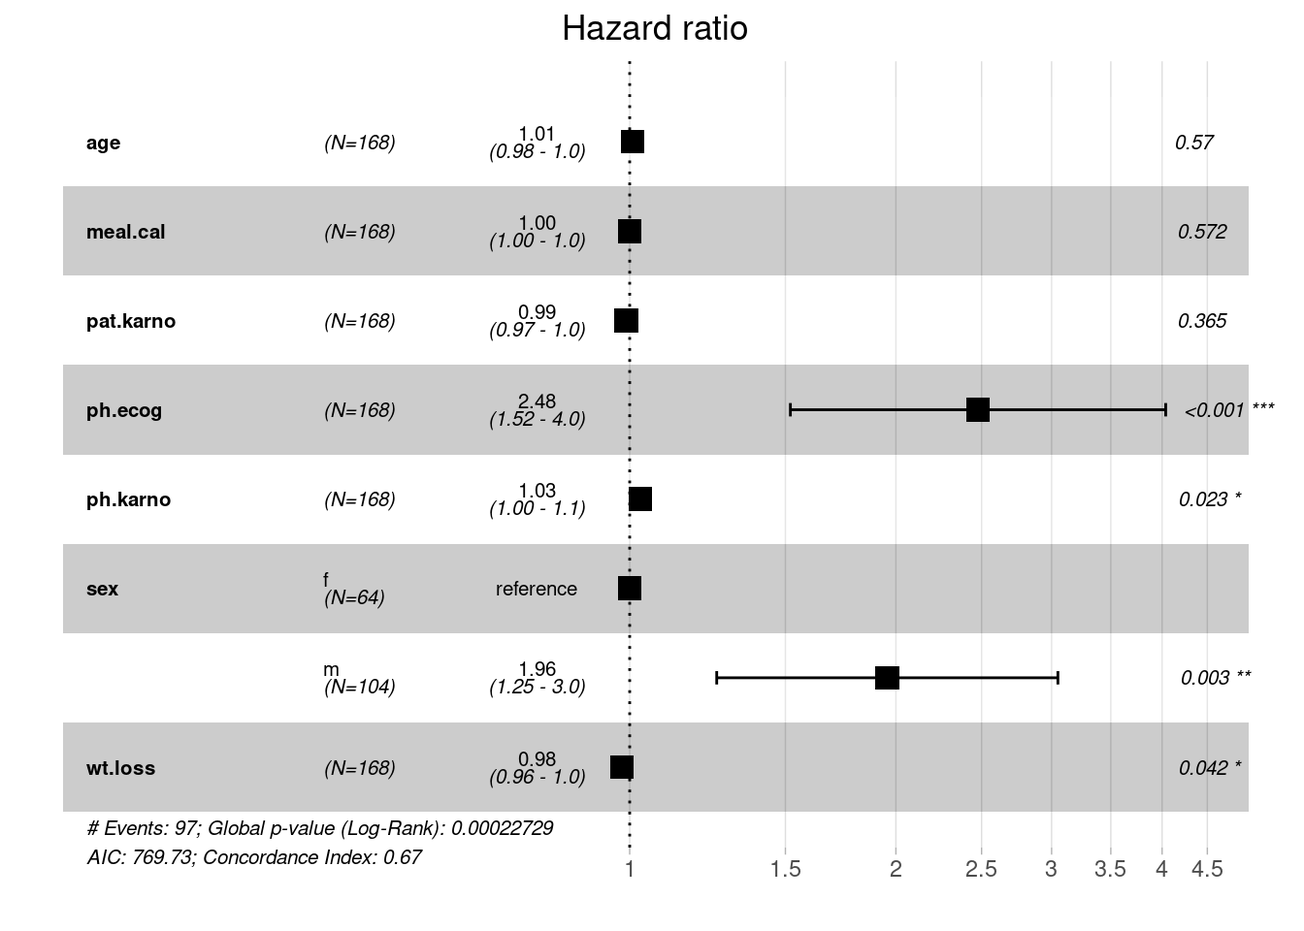
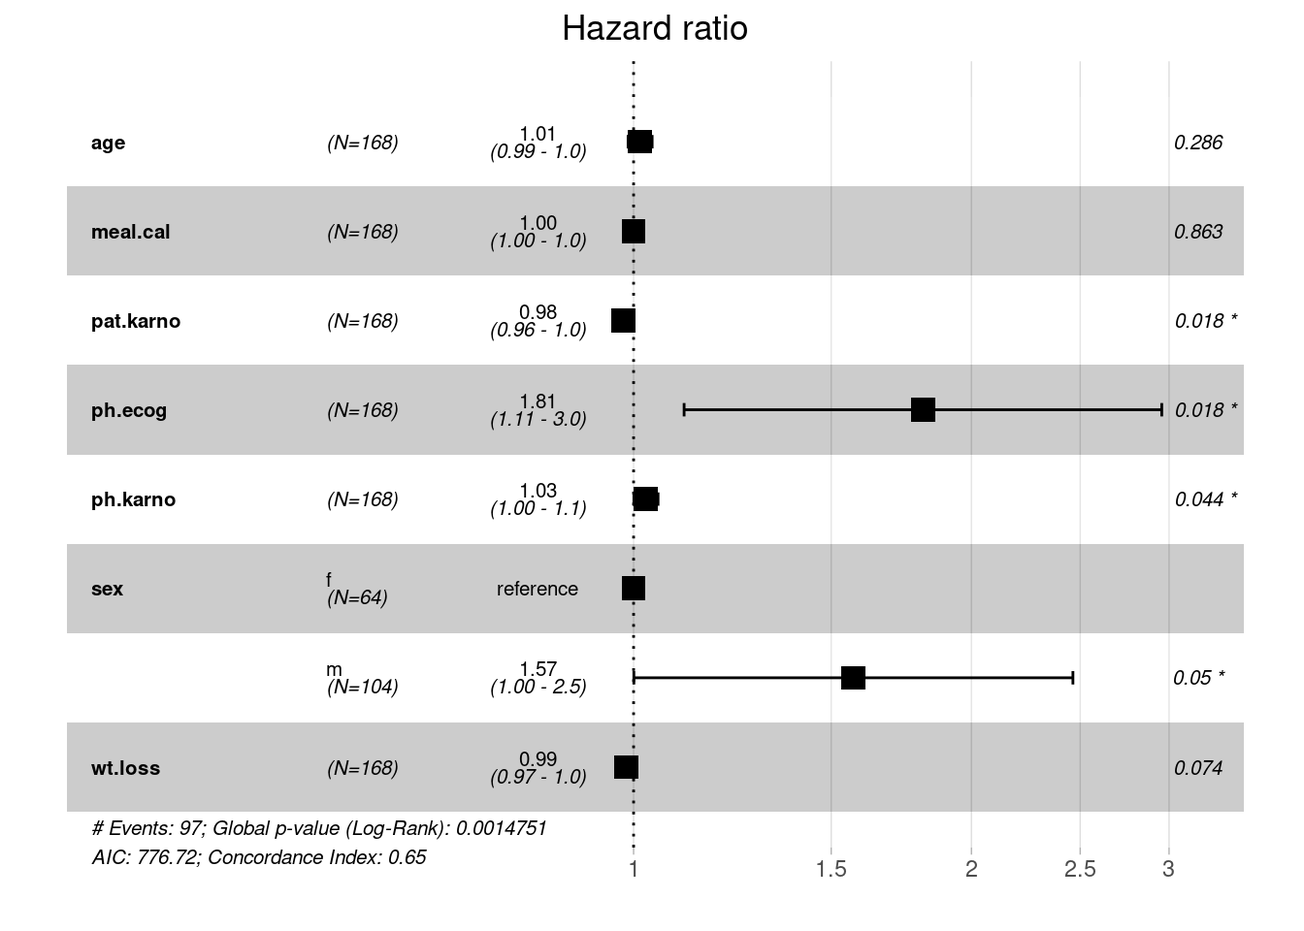
update docs

diff --git a/docs/index.html b/docs/index.html
@@ -213,10 +213,9 @@ We can access the list of available learners using the <code>mlr_learners</code>
 <div class="sourceCode cell-code" id="cb2"><pre class="sourceCode r code-with-copy"><code class="sourceCode r"><span id="cb2-1"><a href="#cb2-1" aria-hidden="true" tabindex="-1"></a><span class="fu">sample</span>(mlr_learners<span class="sc">$</span><span class="fu">keys</span>(), <span class="dv">10</span>)</span></code><button title="Copy to Clipboard" class="code-copy-button"><i class="bi"></i></button></pre></div>
 </details>
 <div class="cell-output cell-output-stdout">
-<pre><code> [1] "classif.randomForest" "surv.penalized"       "regr.lm"             
- [4] "clust.meanshift"      "surv.cv_glmnet"       "regr.ranger"         
- [7] "regr.svm"             "clust.featureless"    "surv.mboost"         
-[10] "regr.lightgbm"       </code></pre>
+<pre><code> [1] "surv.cv_glmnet" "classif.rpart"  "surv.glmboost"  "classif.J48"   
+ [5] "regr.glmboost"  "clust.hclust"   "clust.ff"       "regr.rfsrc"    
+ [9] "regr.gamboost"  "classif.gam"   </code></pre>
 </div>
 </div>
 <p>One example:</p>
@@ -499,26 +498,27 @@ Note
 <div class="cell">
 <details open="">
 <summary>Code</summary>
-<div class="sourceCode cell-code" id="cb26"><pre class="sourceCode r code-with-copy"><code class="sourceCode r"><span id="cb26-1"><a href="#cb26-1" aria-hidden="true" tabindex="-1"></a>part <span class="ot">=</span> <span class="fu">partition</span>(task, <span class="at">ratio =</span> <span class="fl">0.8</span>) <span class="co"># by default, stratification is on `status` variable</span></span>
-<span id="cb26-2"><a href="#cb26-2" aria-hidden="true" tabindex="-1"></a>cox<span class="sc">$</span><span class="fu">train</span>(task, <span class="at">row_ids =</span> part<span class="sc">$</span>train)</span>
-<span id="cb26-3"><a href="#cb26-3" aria-hidden="true" tabindex="-1"></a></span>
-<span id="cb26-4"><a href="#cb26-4" aria-hidden="true" tabindex="-1"></a>cox<span class="sc">$</span>model</span></code><button title="Copy to Clipboard" class="code-copy-button"><i class="bi"></i></button></pre></div>
+<div class="sourceCode cell-code" id="cb26"><pre class="sourceCode r code-with-copy"><code class="sourceCode r"><span id="cb26-1"><a href="#cb26-1" aria-hidden="true" tabindex="-1"></a><span class="fu">set.seed</span>(<span class="dv">42</span>)</span>
+<span id="cb26-2"><a href="#cb26-2" aria-hidden="true" tabindex="-1"></a>part <span class="ot">=</span> <span class="fu">partition</span>(task, <span class="at">ratio =</span> <span class="fl">0.8</span>) <span class="co"># by default, stratification is on `status` variable</span></span>
+<span id="cb26-3"><a href="#cb26-3" aria-hidden="true" tabindex="-1"></a>cox<span class="sc">$</span><span class="fu">train</span>(task, <span class="at">row_ids =</span> part<span class="sc">$</span>train)</span>
+<span id="cb26-4"><a href="#cb26-4" aria-hidden="true" tabindex="-1"></a></span>
+<span id="cb26-5"><a href="#cb26-5" aria-hidden="true" tabindex="-1"></a>cox<span class="sc">$</span>model</span></code><button title="Copy to Clipboard" class="code-copy-button"><i class="bi"></i></button></pre></div>
 </details>
 <div class="cell-output cell-output-stdout">
 <pre><code>Call:
 survival::coxph(formula = task$formula(), data = task$data(), 
     x = TRUE)
 
-                coef  exp(coef)   se(coef)      z        p
-age        0.0072037  1.0072297  0.0126836  0.568 0.570069
-meal.cal  -0.0001913  0.9998087  0.0003387 -0.565 0.572193
-pat.karno -0.0084326  0.9916029  0.0093169 -0.905 0.365418
-ph.ecog    0.9070317  2.4769592  0.2492998  3.638 0.000274
-ph.karno   0.0274085  1.0277875  0.0120926  2.267 0.023418
-sexm       0.6708008  1.9558029  0.2266265  2.960 0.003077
-wt.loss   -0.0205576  0.9796522  0.0101108 -2.033 0.042030
+                coef  exp(coef)   se(coef)      z      p
+age        1.341e-02  1.013e+00  1.258e-02  1.066 0.2864
+meal.cal  -5.007e-05  9.999e-01  2.903e-04 -0.172 0.8631
+pat.karno -2.142e-02  9.788e-01  9.055e-03 -2.366 0.0180
+ph.ecog    5.936e-01  1.811e+00  2.500e-01  2.375 0.0176
+ph.karno   2.541e-02  1.026e+00  1.263e-02  2.011 0.0443
+sexm       4.510e-01  1.570e+00  2.298e-01  1.962 0.0497
+wt.loss   -1.500e-02  9.851e-01  8.395e-03 -1.787 0.0739
 
-Likelihood ratio test=27.92  on 7 df, p=0.0002273
+Likelihood ratio test=23.36  on 7 df, p=0.001475
 n= 135, number of events= 97 </code></pre>
 </div>
 </div>
@@ -544,14 +544,14 @@ n= 135, number of events= 97 </code></pre>
 </details>
 <div class="cell-output cell-output-stdout">
 <pre><code>&lt;PredictionSurv&gt; for 33 observations:
-    row_ids time status        crank           lp     distr
-          9  567   TRUE -0.700201337 -0.700201337 &lt;list[1]&gt;
-         10  613   TRUE  1.028226970  1.028226970 &lt;list[1]&gt;
-         28  731   TRUE -0.375816571 -0.375816571 &lt;list[1]&gt;
----                                                        
-        163  197  FALSE  0.605988685  0.605988685 &lt;list[1]&gt;
-        167  174  FALSE  0.890416067  0.890416067 &lt;list[1]&gt;
-        168  177  FALSE -0.004345193 -0.004345193 &lt;list[1]&gt;</code></pre>
+    row_ids time status       crank          lp     distr
+          1  455   TRUE -0.16022736 -0.16022736 &lt;list[1]&gt;
+          8  170   TRUE  0.07608537  0.07608537 &lt;list[1]&gt;
+         15  371   TRUE -0.46601841 -0.46601841 &lt;list[1]&gt;
+---                                                      
+        165  191  FALSE -0.30526841 -0.30526841 &lt;list[1]&gt;
+        166  105  FALSE  0.49632782  0.49632782 &lt;list[1]&gt;
+        168  177  FALSE -0.17234336 -0.17234336 &lt;list[1]&gt;</code></pre>
 </div>
 </div>
 <div class="callout callout-style-default callout-tip callout-titled" title="Prediction types in mlr3proba">
@@ -580,17 +580,17 @@ Prediction types in mlr3proba
 </details>
 <div class="cell-output cell-output-stdout">
 <pre><code>           1            2            3            4            5            6 
--0.700201337  1.028226970 -0.375816571  0.816563800 -0.185087141  0.411187485 
+-0.160227364  0.076085366 -0.466018411  0.293380270  1.179147761  0.523244848 
            7            8            9           10           11           12 
- 0.283576898  0.352202395  0.464643104  1.556489894  0.380432009  0.953430081 
+ 0.391564618 -0.029833700 -0.149489235 -0.262762070  0.076021387  0.279388934 
           13           14           15           16           17           18 
- 0.613978574  0.168618620  0.440813175  0.603358317 -0.955983866 -0.183689510 
+ 0.889995280  0.859467193  1.030472975  0.277533930 -0.057165655  0.362416853 
           19           20           21           22           23           24 
- 0.043210567  0.049214390 -0.790112114  0.474345598  0.158416163  0.618235104 
+-0.037670338 -0.295071061 -0.419840184  0.793214751  0.823500785  0.977222024 
           25           26           27           28           29           30 
--0.458227141 -0.688933251  0.673196757  0.881672255 -0.241967726  0.550904241 
+-0.046252611  0.021227170 -0.093541236 -0.158438686  1.615114453  0.003701068 
           31           32           33 
- 0.605988685  0.890416067 -0.004345193 </code></pre>
+-0.305268413  0.496327822 -0.172343361 </code></pre>
 </div>
 </div>
 <p>Survival prediction is a 2D <code>matrix</code> essentially, with dimensions: observations x time points:</p>
@@ -600,12 +600,12 @@ Prediction types in mlr3proba
 <div class="sourceCode cell-code" id="cb33"><pre class="sourceCode r code-with-copy"><code class="sourceCode r"><span id="cb33-1"><a href="#cb33-1" aria-hidden="true" tabindex="-1"></a>p<span class="sc">$</span>data<span class="sc">$</span>distr[<span class="dv">1</span><span class="sc">:</span><span class="dv">5</span>, <span class="dv">1</span><span class="sc">:</span><span class="dv">5</span>]</span></code><button title="Copy to Clipboard" class="code-copy-button"><i class="bi"></i></button></pre></div>
 </details>
 <div class="cell-output cell-output-stdout">
-<pre><code>          5        11        12        13        26
-1 0.9979931 0.9959835 0.9939475 0.9918779 0.9897800
-2 0.9887499 0.9775894 0.9663876 0.9551100 0.9437888
-3 0.9972252 0.9944488 0.9916380 0.9887832 0.9858917
-4 0.9908862 0.9818254 0.9727112 0.9635150 0.9542623
-5 0.9966431 0.9932862 0.9898897 0.9864422 0.9829525</code></pre>
+<pre><code>          5        11        12        13        15
+1 0.9959775 0.9919519 0.9879072 0.9837970 0.9796477
+2 0.9949079 0.9898175 0.9847084 0.9795222 0.9742926
+3 0.9970357 0.9940659 0.9910789 0.9880402 0.9849691
+4 0.9936759 0.9873617 0.9810323 0.9746156 0.9681535
+5 0.9847342 0.9696296 0.9546262 0.9395560 0.9245212</code></pre>
 </div>
 </div>
 <p>Users should use the <a href="https://github.com/xoopR/distr6">distr6</a> interface to access this prediction type, which allows us to retrieve survival probabilities (or hazards) for any time point of interest:</p>
@@ -616,10 +616,21 @@ Prediction types in mlr3proba
 <span id="cb35-2"><a href="#cb35-2" aria-hidden="true" tabindex="-1"></a>p<span class="sc">$</span>distr[<span class="dv">1</span><span class="sc">:</span><span class="dv">4</span>]<span class="sc">$</span><span class="fu">survival</span>(<span class="fu">c</span>(<span class="dv">100</span>, <span class="dv">500</span>, <span class="dv">1200</span>))</span></code><button title="Copy to Clipboard" class="code-copy-button"><i class="bi"></i></button></pre></div>
 </details>
 <div class="cell-output cell-output-stdout">
-<pre><code>          [,1]        [,2]      [,3]       [,4]
-100  0.9602155 0.795617321 0.9453939 0.83108638
-500  0.6489208 0.087559224 0.5498287 0.13933856
-1200 0.4036618 0.006041878 0.2851358 0.01601186</code></pre>
+<pre><code>          [,1]      [,2]      [,3]       [,4]
+100  0.9184997 0.8979186 0.9393041 0.87475634
+500  0.4589611 0.3729197 0.5634874 0.29352281
+1200 0.1684876 0.1048078 0.2693617 0.06062239</code></pre>
+</div>
+</div>
+<p>Visualization of predicted survival curves for <span class="math inline">3</span> test patients:</p>
+<div class="cell">
+<details open="">
+<summary>Code</summary>
+<div class="sourceCode cell-code" id="cb37"><pre class="sourceCode r code-with-copy"><code class="sourceCode r"><span id="cb37-1"><a href="#cb37-1" aria-hidden="true" tabindex="-1"></a>p2 <span class="ot">=</span> p<span class="sc">$</span><span class="fu">clone</span>()<span class="sc">$</span><span class="fu">filter</span>(<span class="at">row_ids =</span> <span class="fu">c</span>(<span class="dv">1</span>,<span class="dv">24</span>,<span class="dv">40</span>))</span>
+<span id="cb37-2"><a href="#cb37-2" aria-hidden="true" tabindex="-1"></a><span class="fu">autoplot</span>(p2, <span class="at">type =</span> <span class="st">"preds"</span>)</span></code><button title="Copy to Clipboard" class="code-copy-button"><i class="bi"></i></button></pre></div>
+</details>
+<div class="cell-output-display">
+<p><img src="index_files/figure-html/unnamed-chunk-20-1.png" class="img-fluid" width="672"></p>
 </div>
 </div>
 </section>
@@ -647,7 +658,7 @@ Model validation
 <div class="cell">
 <details open="">
 <summary>Code</summary>
-<div class="sourceCode cell-code" id="cb37"><pre class="sourceCode r code-with-copy"><code class="sourceCode r"><span id="cb37-1"><a href="#cb37-1" aria-hidden="true" tabindex="-1"></a>mlr_measures<span class="sc">$</span><span class="fu">keys</span>(<span class="at">pattern =</span> <span class="st">"surv"</span>)</span></code><button title="Copy to Clipboard" class="code-copy-button"><i class="bi"></i></button></pre></div>
+<div class="sourceCode cell-code" id="cb38"><pre class="sourceCode r code-with-copy"><code class="sourceCode r"><span id="cb38-1"><a href="#cb38-1" aria-hidden="true" tabindex="-1"></a>mlr_measures<span class="sc">$</span><span class="fu">keys</span>(<span class="at">pattern =</span> <span class="st">"surv"</span>)</span></code><button title="Copy to Clipboard" class="code-copy-button"><i class="bi"></i></button></pre></div>
 </details>
 <div class="cell-output cell-output-stdout">
 <pre><code> [1] "surv.brier"         "surv.calib_alpha"   "surv.calib_beta"   
@@ -664,12 +675,12 @@ Model validation
 <div class="cell">
 <details open="">
 <summary>Code</summary>
-<div class="sourceCode cell-code" id="cb39"><pre class="sourceCode r code-with-copy"><code class="sourceCode r"><span id="cb39-1"><a href="#cb39-1" aria-hidden="true" tabindex="-1"></a>harrell_c <span class="ot">=</span> <span class="fu">msr</span>(<span class="st">"surv.cindex"</span>, <span class="at">id =</span> <span class="st">"surv.cindex.harrell"</span>)</span>
-<span id="cb39-2"><a href="#cb39-2" aria-hidden="true" tabindex="-1"></a>uno_c <span class="ot">=</span> <span class="fu">msr</span>(<span class="st">"surv.cindex"</span>, <span class="at">weight_meth =</span> <span class="st">"G2"</span>)</span>
-<span id="cb39-3"><a href="#cb39-3" aria-hidden="true" tabindex="-1"></a>uno_auci <span class="ot">=</span> <span class="fu">msr</span>(<span class="st">"surv.uno_auc"</span>, <span class="at">integrated =</span> <span class="cn">TRUE</span>) <span class="co"># across all times in the test set</span></span>
-<span id="cb39-4"><a href="#cb39-4" aria-hidden="true" tabindex="-1"></a>uno_auc <span class="ot">=</span> <span class="fu">msr</span>(<span class="st">"surv.uno_auc"</span>, <span class="at">integrated =</span> <span class="cn">FALSE</span>, <span class="at">times =</span> <span class="dv">10</span>) <span class="co"># at a specific time-point of interest</span></span>
-<span id="cb39-5"><a href="#cb39-5" aria-hidden="true" tabindex="-1"></a></span>
-<span id="cb39-6"><a href="#cb39-6" aria-hidden="true" tabindex="-1"></a>harrell_c</span></code><button title="Copy to Clipboard" class="code-copy-button"><i class="bi"></i></button></pre></div>
+<div class="sourceCode cell-code" id="cb40"><pre class="sourceCode r code-with-copy"><code class="sourceCode r"><span id="cb40-1"><a href="#cb40-1" aria-hidden="true" tabindex="-1"></a>harrell_c <span class="ot">=</span> <span class="fu">msr</span>(<span class="st">"surv.cindex"</span>, <span class="at">id =</span> <span class="st">"surv.cindex.harrell"</span>)</span>
+<span id="cb40-2"><a href="#cb40-2" aria-hidden="true" tabindex="-1"></a>uno_c <span class="ot">=</span> <span class="fu">msr</span>(<span class="st">"surv.cindex"</span>, <span class="at">weight_meth =</span> <span class="st">"G2"</span>)</span>
+<span id="cb40-3"><a href="#cb40-3" aria-hidden="true" tabindex="-1"></a>uno_auci <span class="ot">=</span> <span class="fu">msr</span>(<span class="st">"surv.uno_auc"</span>, <span class="at">integrated =</span> <span class="cn">TRUE</span>) <span class="co"># across all times in the test set</span></span>
+<span id="cb40-4"><a href="#cb40-4" aria-hidden="true" tabindex="-1"></a>uno_auc <span class="ot">=</span> <span class="fu">msr</span>(<span class="st">"surv.uno_auc"</span>, <span class="at">integrated =</span> <span class="cn">FALSE</span>, <span class="at">times =</span> <span class="dv">10</span>) <span class="co"># at a specific time-point of interest</span></span>
+<span id="cb40-5"><a href="#cb40-5" aria-hidden="true" tabindex="-1"></a></span>
+<span id="cb40-6"><a href="#cb40-6" aria-hidden="true" tabindex="-1"></a>harrell_c</span></code><button title="Copy to Clipboard" class="code-copy-button"><i class="bi"></i></button></pre></div>
 </details>
 <div class="cell-output cell-output-stdout">
 <pre><code>&lt;MeasureSurvCindex:surv.cindex.harrell&gt;
@@ -684,7 +695,7 @@ Model validation
 </div>
 <details open="">
 <summary>Code</summary>
-<div class="sourceCode cell-code" id="cb41"><pre class="sourceCode r code-with-copy"><code class="sourceCode r"><span id="cb41-1"><a href="#cb41-1" aria-hidden="true" tabindex="-1"></a>uno_auc</span></code><button title="Copy to Clipboard" class="code-copy-button"><i class="bi"></i></button></pre></div>
+<div class="sourceCode cell-code" id="cb42"><pre class="sourceCode r code-with-copy"><code class="sourceCode r"><span id="cb42-1"><a href="#cb42-1" aria-hidden="true" tabindex="-1"></a>uno_auc</span></code><button title="Copy to Clipboard" class="code-copy-button"><i class="bi"></i></button></pre></div>
 </details>
 <div class="cell-output cell-output-stdout">
 <pre><code>&lt;MeasureSurvUnoAUC:surv.uno_auc&gt;
@@ -717,37 +728,37 @@ Note
 <div class="cell">
 <details open="">
 <summary>Code</summary>
-<div class="sourceCode cell-code" id="cb43"><pre class="sourceCode r code-with-copy"><code class="sourceCode r"><span id="cb43-1"><a href="#cb43-1" aria-hidden="true" tabindex="-1"></a>p<span class="sc">$</span><span class="fu">score</span>(harrell_c)</span></code><button title="Copy to Clipboard" class="code-copy-button"><i class="bi"></i></button></pre></div>
+<div class="sourceCode cell-code" id="cb44"><pre class="sourceCode r code-with-copy"><code class="sourceCode r"><span id="cb44-1"><a href="#cb44-1" aria-hidden="true" tabindex="-1"></a>p<span class="sc">$</span><span class="fu">score</span>(harrell_c)</span></code><button title="Copy to Clipboard" class="code-copy-button"><i class="bi"></i></button></pre></div>
 </details>
 <div class="cell-output cell-output-stdout">
 <pre><code>surv.cindex.harrell 
-          0.5282052 </code></pre>
+          0.6336898 </code></pre>
 </div>
 <details open="">
 <summary>Code</summary>
-<div class="sourceCode cell-code" id="cb45"><pre class="sourceCode r code-with-copy"><code class="sourceCode r"><span id="cb45-1"><a href="#cb45-1" aria-hidden="true" tabindex="-1"></a>p<span class="sc">$</span><span class="fu">score</span>(uno_c, <span class="at">task =</span> task, <span class="at">train_set =</span> part<span class="sc">$</span>train)</span></code><button title="Copy to Clipboard" class="code-copy-button"><i class="bi"></i></button></pre></div>
+<div class="sourceCode cell-code" id="cb46"><pre class="sourceCode r code-with-copy"><code class="sourceCode r"><span id="cb46-1"><a href="#cb46-1" aria-hidden="true" tabindex="-1"></a>p<span class="sc">$</span><span class="fu">score</span>(uno_c, <span class="at">task =</span> task, <span class="at">train_set =</span> part<span class="sc">$</span>train)</span></code><button title="Copy to Clipboard" class="code-copy-button"><i class="bi"></i></button></pre></div>
 </details>
 <div class="cell-output cell-output-stdout">
 <pre><code>surv.cindex 
-  0.5292394 </code></pre>
+  0.5907828 </code></pre>
 </div>
 </div>
 <p>Calibration is traditionally performed graphically via calibration plots:</p>
 <div class="cell">
 <details open="">
 <summary>Code</summary>
-<div class="sourceCode cell-code" id="cb47"><pre class="sourceCode r code-with-copy"><code class="sourceCode r"><span id="cb47-1"><a href="#cb47-1" aria-hidden="true" tabindex="-1"></a><span class="fu">autoplot</span>(p, <span class="at">type =</span> <span class="st">"calib"</span>, <span class="at">task =</span> task, <span class="at">row_ids =</span> part<span class="sc">$</span>test)</span></code><button title="Copy to Clipboard" class="code-copy-button"><i class="bi"></i></button></pre></div>
+<div class="sourceCode cell-code" id="cb48"><pre class="sourceCode r code-with-copy"><code class="sourceCode r"><span id="cb48-1"><a href="#cb48-1" aria-hidden="true" tabindex="-1"></a><span class="fu">autoplot</span>(p, <span class="at">type =</span> <span class="st">"calib"</span>, <span class="at">task =</span> task, <span class="at">row_ids =</span> part<span class="sc">$</span>test)</span></code><button title="Copy to Clipboard" class="code-copy-button"><i class="bi"></i></button></pre></div>
 </details>
 <div class="cell-output-display">
-<p><img src="index_files/figure-html/unnamed-chunk-23-1.png" class="img-fluid" width="672"></p>
+<p><img src="index_files/figure-html/unnamed-chunk-24-1.png" class="img-fluid" width="672"></p>
 </div>
 </div>
 <p>But there exists also calibration metrics, e.g.&nbsp;<strong>D-Calibration</strong>:</p>
 <div class="cell">
 <details open="">
 <summary>Code</summary>
-<div class="sourceCode cell-code" id="cb48"><pre class="sourceCode r code-with-copy"><code class="sourceCode r"><span id="cb48-1"><a href="#cb48-1" aria-hidden="true" tabindex="-1"></a>dcal <span class="ot">=</span> <span class="fu">msr</span>(<span class="st">"surv.dcalib"</span>)</span>
-<span id="cb48-2"><a href="#cb48-2" aria-hidden="true" tabindex="-1"></a>dcal</span></code><button title="Copy to Clipboard" class="code-copy-button"><i class="bi"></i></button></pre></div>
+<div class="sourceCode cell-code" id="cb49"><pre class="sourceCode r code-with-copy"><code class="sourceCode r"><span id="cb49-1"><a href="#cb49-1" aria-hidden="true" tabindex="-1"></a>dcal <span class="ot">=</span> <span class="fu">msr</span>(<span class="st">"surv.dcalib"</span>)</span>
+<span id="cb49-2"><a href="#cb49-2" aria-hidden="true" tabindex="-1"></a>dcal</span></code><button title="Copy to Clipboard" class="code-copy-button"><i class="bi"></i></button></pre></div>
 </details>
 <div class="cell-output cell-output-stdout">
 <pre><code>&lt;MeasureSurvDCalibration:surv.dcalib&gt;
@@ -762,19 +773,19 @@ Note
 </div>
 <details open="">
 <summary>Code</summary>
-<div class="sourceCode cell-code" id="cb50"><pre class="sourceCode r code-with-copy"><code class="sourceCode r"><span id="cb50-1"><a href="#cb50-1" aria-hidden="true" tabindex="-1"></a>p<span class="sc">$</span><span class="fu">score</span>(dcal)</span></code><button title="Copy to Clipboard" class="code-copy-button"><i class="bi"></i></button></pre></div>
+<div class="sourceCode cell-code" id="cb51"><pre class="sourceCode r code-with-copy"><code class="sourceCode r"><span id="cb51-1"><a href="#cb51-1" aria-hidden="true" tabindex="-1"></a>p<span class="sc">$</span><span class="fu">score</span>(dcal)</span></code><button title="Copy to Clipboard" class="code-copy-button"><i class="bi"></i></button></pre></div>
 </details>
 <div class="cell-output cell-output-stdout">
 <pre><code>surv.dcalib 
-   3.918884 </code></pre>
+   8.320423 </code></pre>
 </div>
 </div>
 <p>Overall survival prediction performance can be assessed by scoring rules such as the <strong>Integrated Survival Brier Score</strong> (ISBS) and the <strong>Right-censored Log-Loss</strong> (RCLL) among others:</p>
 <div class="cell">
 <details open="">
 <summary>Code</summary>
-<div class="sourceCode cell-code" id="cb52"><pre class="sourceCode r code-with-copy"><code class="sourceCode r"><span id="cb52-1"><a href="#cb52-1" aria-hidden="true" tabindex="-1"></a>rcll <span class="ot">=</span> <span class="fu">msr</span>(<span class="st">"surv.rcll"</span>)</span>
-<span id="cb52-2"><a href="#cb52-2" aria-hidden="true" tabindex="-1"></a>rcll</span></code><button title="Copy to Clipboard" class="code-copy-button"><i class="bi"></i></button></pre></div>
+<div class="sourceCode cell-code" id="cb53"><pre class="sourceCode r code-with-copy"><code class="sourceCode r"><span id="cb53-1"><a href="#cb53-1" aria-hidden="true" tabindex="-1"></a>rcll <span class="ot">=</span> <span class="fu">msr</span>(<span class="st">"surv.rcll"</span>)</span>
+<span id="cb53-2"><a href="#cb53-2" aria-hidden="true" tabindex="-1"></a>rcll</span></code><button title="Copy to Clipboard" class="code-copy-button"><i class="bi"></i></button></pre></div>
 </details>
 <div class="cell-output cell-output-stdout">
 <pre><code>&lt;MeasureSurvRCLL:surv.rcll&gt;
@@ -789,18 +800,18 @@ Note
 </div>
 <details open="">
 <summary>Code</summary>
-<div class="sourceCode cell-code" id="cb54"><pre class="sourceCode r code-with-copy"><code class="sourceCode r"><span id="cb54-1"><a href="#cb54-1" aria-hidden="true" tabindex="-1"></a>p<span class="sc">$</span><span class="fu">score</span>(rcll)</span></code><button title="Copy to Clipboard" class="code-copy-button"><i class="bi"></i></button></pre></div>
+<div class="sourceCode cell-code" id="cb55"><pre class="sourceCode r code-with-copy"><code class="sourceCode r"><span id="cb55-1"><a href="#cb55-1" aria-hidden="true" tabindex="-1"></a>p<span class="sc">$</span><span class="fu">score</span>(rcll)</span></code><button title="Copy to Clipboard" class="code-copy-button"><i class="bi"></i></button></pre></div>
 </details>
 <div class="cell-output cell-output-stdout">
 <pre><code>surv.rcll 
- 22.55022 </code></pre>
+ 23.46684 </code></pre>
 </div>
 </div>
 <div class="cell">
 <details open="">
 <summary>Code</summary>
-<div class="sourceCode cell-code" id="cb56"><pre class="sourceCode r code-with-copy"><code class="sourceCode r"><span id="cb56-1"><a href="#cb56-1" aria-hidden="true" tabindex="-1"></a>ibrier <span class="ot">=</span> <span class="fu">msr</span>(<span class="st">"surv.brier"</span>, <span class="at">proper =</span> <span class="cn">TRUE</span>)</span>
-<span id="cb56-2"><a href="#cb56-2" aria-hidden="true" tabindex="-1"></a>ibrier</span></code><button title="Copy to Clipboard" class="code-copy-button"><i class="bi"></i></button></pre></div>
+<div class="sourceCode cell-code" id="cb57"><pre class="sourceCode r code-with-copy"><code class="sourceCode r"><span id="cb57-1"><a href="#cb57-1" aria-hidden="true" tabindex="-1"></a>ibrier <span class="ot">=</span> <span class="fu">msr</span>(<span class="st">"surv.brier"</span>, <span class="at">proper =</span> <span class="cn">TRUE</span>)</span>
+<span id="cb57-2"><a href="#cb57-2" aria-hidden="true" tabindex="-1"></a>ibrier</span></code><button title="Copy to Clipboard" class="code-copy-button"><i class="bi"></i></button></pre></div>
 </details>
 <div class="cell-output cell-output-stdout">
 <pre><code>&lt;MeasureSurvGraf:surv.graf&gt;
@@ -816,11 +827,11 @@ Note
 </div>
 <details open="">
 <summary>Code</summary>
-<div class="sourceCode cell-code" id="cb58"><pre class="sourceCode r code-with-copy"><code class="sourceCode r"><span id="cb58-1"><a href="#cb58-1" aria-hidden="true" tabindex="-1"></a>p<span class="sc">$</span><span class="fu">score</span>(ibrier, <span class="at">task =</span> task, <span class="at">train_set =</span> part<span class="sc">$</span>train)</span></code><button title="Copy to Clipboard" class="code-copy-button"><i class="bi"></i></button></pre></div>
+<div class="sourceCode cell-code" id="cb59"><pre class="sourceCode r code-with-copy"><code class="sourceCode r"><span id="cb59-1"><a href="#cb59-1" aria-hidden="true" tabindex="-1"></a>p<span class="sc">$</span><span class="fu">score</span>(ibrier, <span class="at">task =</span> task, <span class="at">train_set =</span> part<span class="sc">$</span>train)</span></code><button title="Copy to Clipboard" class="code-copy-button"><i class="bi"></i></button></pre></div>
 </details>
 <div class="cell-output cell-output-stdout">
 <pre><code>surv.graf 
-0.1881289 </code></pre>
+0.1591112 </code></pre>
 </div>
 </div>
 </section>
